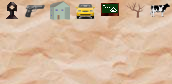
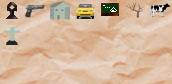
lista de objetos macabros (funestos ou funebres, como queiram)

Changed region(s): [[0.0, 0.3095, 0.1163, 0.5476]]

diff --git a/src/app/mapEditor/guiIO.cpp b/src/app/mapEditor/guiIO.cpp
@@ -113,6 +113,7 @@ void guiIO::openObjectWindow()
    objectIcexButton = objectTabButton->insertButton(99,0,120,19);
    objectNaturalButton = objectTabButton->insertButton(125,0,145,19);
    objectCharButton = objectTabButton->insertButton(147,0,170,19);
+   objectMacabreButton = objectTabButton->insertButton(0,25,24,45);
    objectWindow->ptrExterno = &objectWindow;
    gui->openWindow(objectWindow);
 }
@@ -387,6 +388,7 @@ int guiIO::doIO(int mouseX, int mouseY, Uint8 mButton, Uint8 *keys)
             case STATE_GUNS:
             case STATE_ICEX:
             case STATE_NATURE:
+            case STATE_MACABRE:
                state = GUI_IO_STATE_OBJECTS;
                tool = TOOL_OBSTACLE_ADD;
             break;
@@ -606,6 +608,10 @@ int guiIO::doIO(int mouseX, int mouseY, Uint8 mButton, Uint8 *keys)
          else if(object == (Tobjeto*) objectCharButton)
          {
             ltWindow->setState(STATE_CHARACTERS);
+         }
+         else if(object == (Tobjeto*) objectMacabreButton)
+         {
+            ltWindow->setState(STATE_MACABRE);
          }
          /* Particles Buttons */
          else if(object == (Tobjeto*) fireButton)

diff --git a/src/app/mapEditor/listwindow.cpp b/src/app/mapEditor/listwindow.cpp
@@ -11,6 +11,7 @@
 #define FILE_GUNS       "../data/mapEditor/lists/guns.lst"
 #define FILE_ICEX       "../data/mapEditor/lists/icex.lst"
 #define FILE_NATURE     "../data/mapEditor/lists/nature.lst"
+#define FILE_MACABRE    "../data/mapEditor/lists/macabre.lst"
 
 /* Particles */
 #define FILE_FIRE       "../data/mapEditor/lists/fire.lst"
@@ -90,6 +91,9 @@ void listWindow::setState(int st)
          break;
          case STATE_NATURE:
             fileName = FILE_NATURE;
+         break;
+         case STATE_MACABRE:
+            fileName = FILE_MACABRE;
          break;
          case STATE_FIRE:
             fileName = FILE_FIRE;

diff --git a/src/app/mapEditor/guiIO.h b/src/app/mapEditor/guiIO.h
@@ -172,6 +172,7 @@ class guiIO
       oneTabButton* objectIcexButton;     /**< Object Icex Button */
       oneTabButton* objectNaturalButton;  /**< Object Natural Button */
       oneTabButton* objectCharButton;     /**< Object Character Button */
+      oneTabButton* objectMacabreButton;  /**< Object Macabre Button */
       void openObjectWindow();      
       /*********************Particle*Window*******************************/
       janela* particleWindow;             /**< Particle Window */

diff --git a/src/app/mapEditor/listwindow.h b/src/app/mapEditor/listwindow.h
@@ -14,6 +14,7 @@
 #define STATE_GUNS        14
 #define STATE_ICEX        15
 #define STATE_NATURE      16
+#define STATE_MACABRE     17
 
 /* Particles */
 #define STATE_FIRE        30
